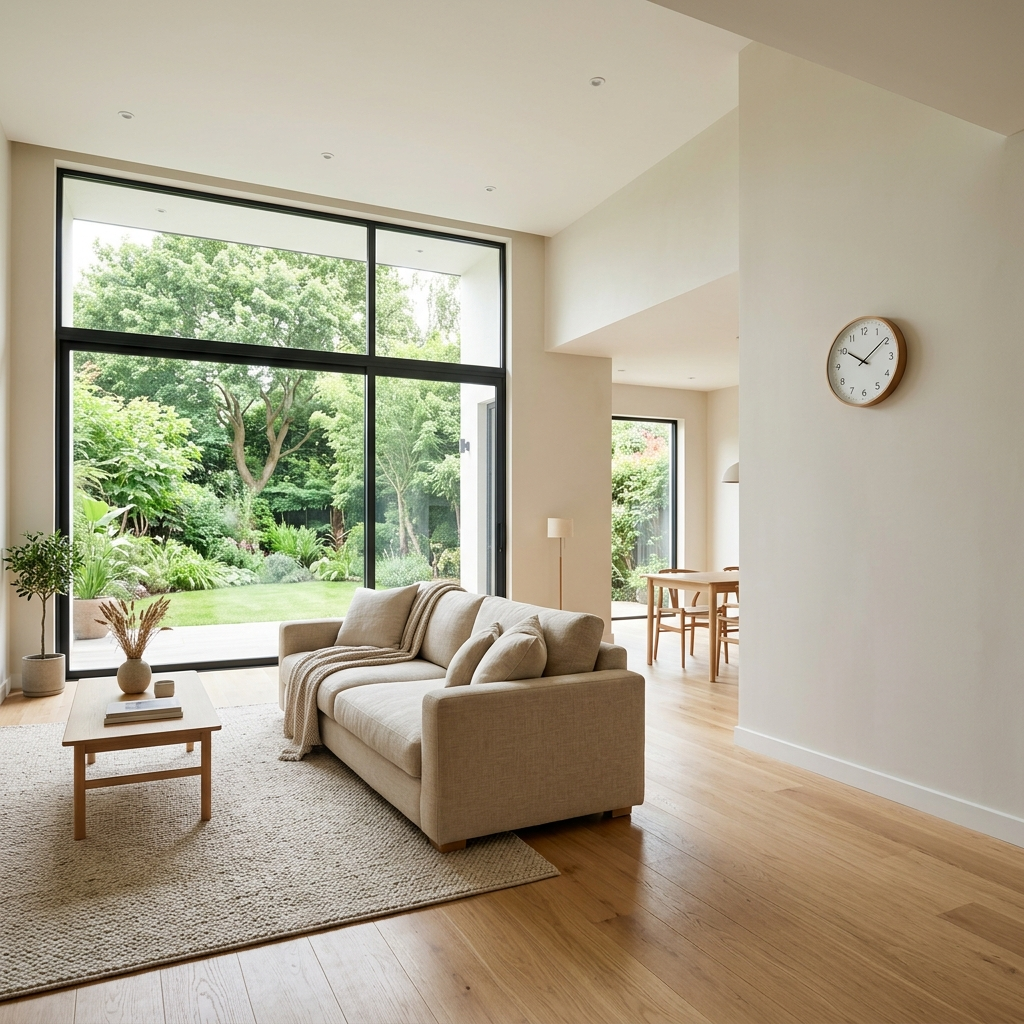
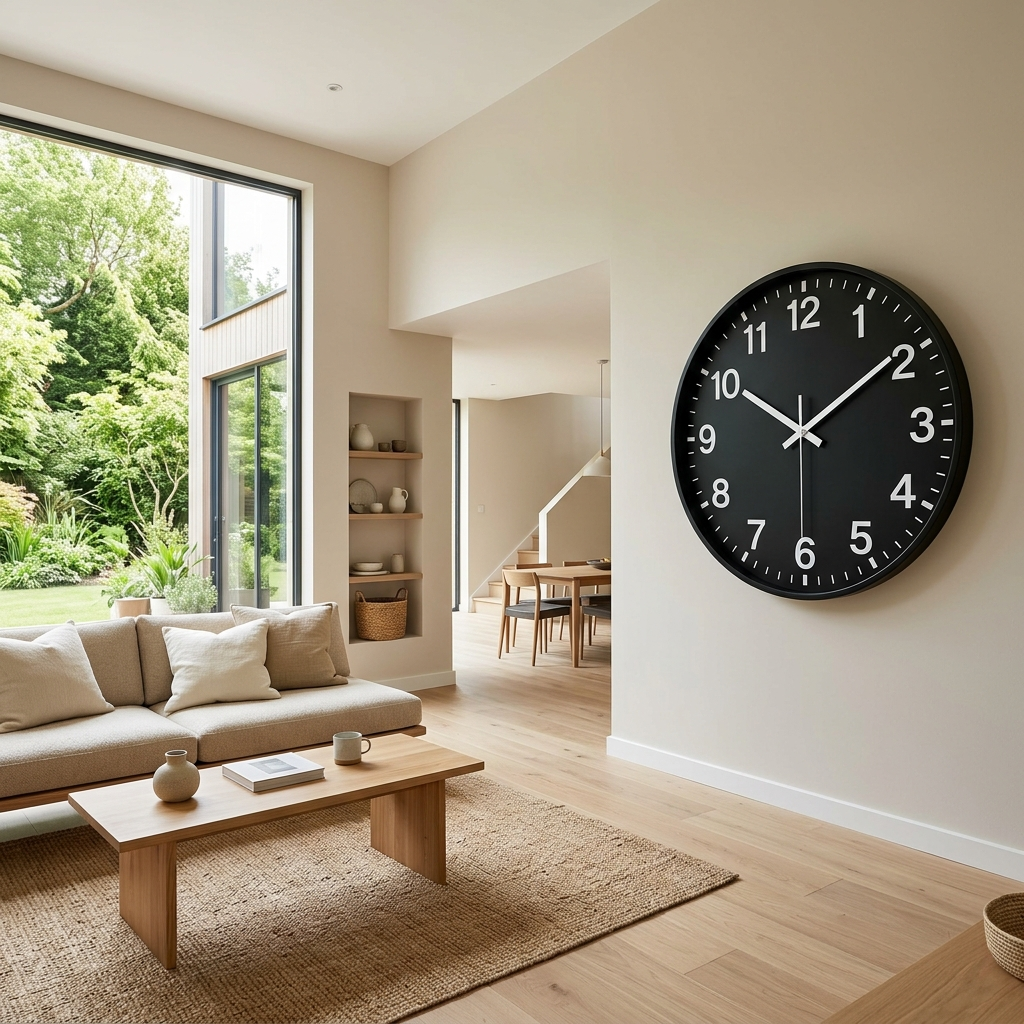
feat: use prominent large clock hero background and enable mobile carousel navigation arrows

diff --git a/frontend/components/PropertyGrid.tsx b/frontend/components/PropertyGrid.tsx
@@ -132,7 +132,7 @@ function PropertyGridContent({ limit, emptyMessage }: PropertyGridProps) {
   return (
     <div className="w-full">
       {/* Navigation Arrows Top Right */}
-      <div className="flex justify-end w-full mb-4 md:flex items-center gap-3 hidden">
+      <div className="flex justify-end w-full mb-4 items-center gap-3">
         <button 
           onClick={() => scroll(-500)}
           className="bg-white hover:bg-gray-50 border border-gray-200 shadow-sm text-primary p-2.5 rounded-full transition-all duration-300 hover:scale-105 active:scale-95"
